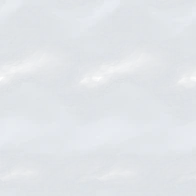
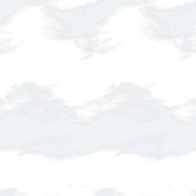
Keyword motion that shows: mist as a veil behind and contrasting wisps in front, the vapour's rising layer carrying the green over a fainter still swirl

diff --git a/animal_kingdom/web/static/game.css b/animal_kingdom/web/static/game.css
@@ -182,12 +182,12 @@
 /* Slow motion, with restraint, the way the real things move: two layers of mist drifting left to right at different
    speeds, the vapour rising through the swirl's own shape and faintly breathing. Each texture wraps seamlessly (kwl_*_flow). */
 .game.kit .unit .kwl.venom.fumes { overflow: hidden; animation: kwbreathe 8s ease-in-out infinite alternate; }
-.game.kit .unit .kwl.venom.fumes .base { position: absolute; inset: 0; width: 100%; height: 100%; }   /* the approved swirl, still */
-.game.kit .unit .kwl.venom.fumes .vmask { position: absolute; inset: 0; opacity: .55; -webkit-mask: url(/static/kit2/kwl_vapour_mask.webp) center / 100% 100%; mask: url(/static/kit2/kwl_vapour_mask.webp) center / 100% 100%; }   /* fixed: the vapour rises through the swirl's shape */
+.game.kit .unit .kwl.venom.fumes .base { position: absolute; inset: 0; width: 100%; height: 100%; opacity: .45; }   /* the approved swirl, still */
+.game.kit .unit .kwl.venom.fumes .vmask { position: absolute; inset: 0; opacity: 1; -webkit-mask: url(/static/kit2/kwl_vapour_mask.webp) center / 100% 100%; mask: url(/static/kit2/kwl_vapour_mask.webp) center / 100% 100%; }   /* fixed: the vapour rises through the swirl's shape */
 .game.kit .unit .kwl .flow { position: absolute; left: 0; top: 0; will-change: transform; }
 .game.kit .unit .kwl.mist .flow { width: 200%; height: 100%; background: url(/static/kit2/kwl_mist_flow.webp) 0 0 / 50% 100% repeat-x; animation: kwdrift 45s linear infinite; }
-.game.kit .unit .kwl.mist .m1 { opacity: .8; }
-.game.kit .unit .kwl.mist .m2 { opacity: .35; background-image: url(/static/kit2/kwl_mist_flow2.webp); animation-duration: 70s; }
+.game.kit .unit .kwl.mist .m1 { opacity: .95; animation-duration: 25s; }   /* the wisps, in front: what the eye follows */
+.game.kit .unit .kwl.mist .m2 { opacity: .85; background-image: url(/static/kit2/kwl_mist_flow2.webp); animation-duration: 70s; }   /* the veil, behind */
 .game.kit .unit .kwl.venom .flow { width: 100%; height: 200%; background: url(/static/kit2/kwl_vapour_flow.webp) 0 0 / 100% 50% repeat-y; animation: kwrise 14s linear infinite; }
 @keyframes kwdrift { from { transform: translateX(-50%); } to { transform: translateX(0); } }
 @keyframes kwrise { from { transform: translateY(0); } to { transform: translateY(-50%); } }

diff --git a/animal_kingdom/web/static/board.js b/animal_kingdom/web/static/board.js
@@ -102,7 +102,7 @@ function unit(u, under, cards, fire = false) {
     : `<div class="kwl venom fumes${hx}">${img('kwl_vapour_fumes.webp', 'base')}<div class="vmask"><div class="flow v1" style="${ph(2, 14)}"></div></div></div>`;
   return peek + (has('Spikes') ? `<img class="kwl thorns" src="${kit(has('Armor') ? 'kwl_thorns_hex.webp' : 'kwl_thorns.webp')}" alt="" draggable="false">` : '') +
     `<div class="ring${has('Armor') ? ' hexp' : ''}${hasArt(u.id) ? '' : ' noart'}${u.inked ? ' inked" data-tip="Inked: no keywords or effects' : ''}" style="${portrait(u.id, 98, has('Armor') ? 124 : 98)}">${hasArt(u.id) ? '' : `<span>${c.name}</span>`}</div>` +
-    venom('tint') + (has('Stealth') ? `<div class="kwl mist${hx}"><div class="flow m1" style="${ph(0, 45)}"></div><div class="flow m2" style="${ph(1, 70)}"></div></div>` : '') + venom('fumes') +
+    venom('tint') + (has('Stealth') ? `<div class="kwl mist${hx}"><div class="flow m2" style="${ph(1, 70)}"></div><div class="flow m1" style="${ph(0, 25)}"></div></div>` : '') + venom('fumes') +
     `<img class="rimimg${has('Armor') ? ' hex' : ''}" src="${kit(has('Armor') ? `kwl_hexb_${team(u.owner)}.webp` : `rim_${team(u.owner)}.webp`)}" alt="" draggable="false">` +
     `<div class="boss num">${chalk(Math.max(0, u.str))}</div>` +
     (u.timer ? `<div class="timer" data-tip="Resolves in ${u.timer} turn${u.timer > 1 ? 's' : ''}">${chalk(u.timer)}</div>` : '') +
